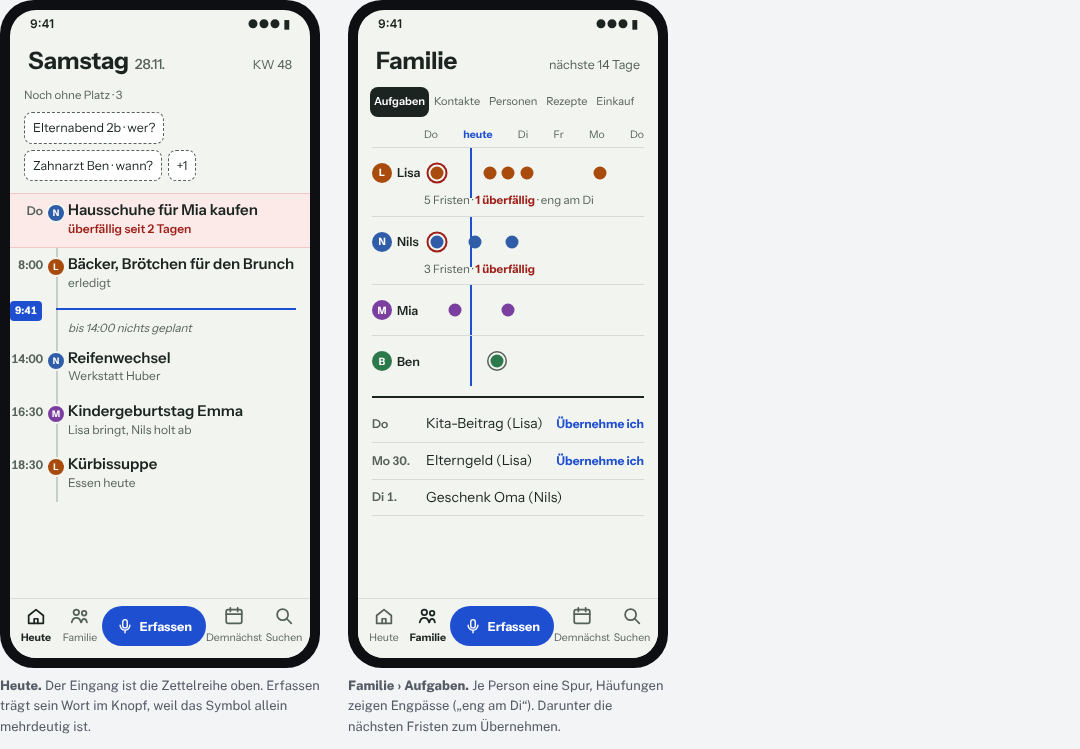
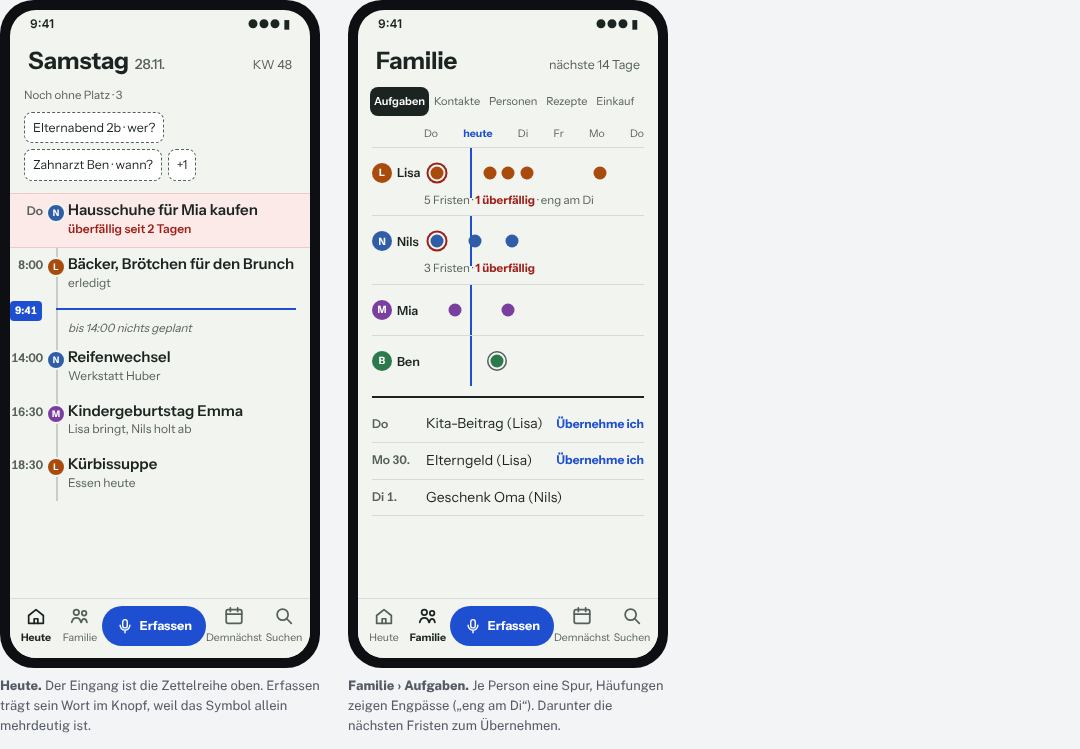
Add organic take on direction A, chosen by Nils
Claude-Session: https://claude.ai/code/session_01BFnfEt5Be47hwYCfY1JE4V

diff --git a/docs/gestaltung/richtungen/optik-richtungen.html b/docs/gestaltung/richtungen/optik-richtungen.html
@@ -1,7 +1,7 @@
 <title>FamilyApp Optik-Richtungen</title>
 <meta name="claude:viewport-fit-sides" content="cover">
 <link rel="preconnect" href="https://fonts.googleapis.com">
-<link rel="stylesheet" href="https://fonts.googleapis.com/css2?family=Archivo:wdth,wght@62..125,400..800&family=Atkinson+Hyperlegible:wght@400;700&family=Instrument+Sans:wdth,wght@75..100,400..700&family=Public+Sans:wght@400;600;800&display=swap">
+<link rel="stylesheet" href="https://fonts.googleapis.com/css2?family=Archivo:wdth,wght@62..125,400..800&family=Atkinson+Hyperlegible:wght@400;700&family=Instrument+Sans:wdth,wght@75..100,400..700&family=Public+Sans:wght@400;600;800&family=Rubik:wght@400;500;600;700&display=swap">
 <link rel="stylesheet" href="https://fonts.googleapis.com/css2?family=Atkinson+Hyperlegible+Next:wght@400;600;800&display=swap">
 <style>
 /* Layout: one reading column for the argument, phone frames in pairs per direction; phones keep their own fixed light palettes. */
@@ -193,6 +193,46 @@ a{color:var(--mark)}
 .C .next .r{display:flex;gap:10px;padding:7px 0;border-bottom:1px solid #D5DBD6;font-size:14px;align-items:center}
 .C .next .d{width:44px;font-size:12px;font-weight:600;color:#55605A;font-variant-numeric:tabular-nums}
 .C .next .take{margin-left:auto;font-size:12px;font-weight:700;color:#1F4FD1;white-space:nowrap}
+
+/* ---------- A2: Familienplaner, organisch ---------- */
+.A2{background:#FBFAF8;color:#1E2333;font-family:"Rubik",system-ui,sans-serif}
+.A2 .day{padding:6px 18px 12px;display:flex;align-items:flex-end;justify-content:space-between}
+.A2 .dname{font-size:32px;font-weight:700;line-height:1;letter-spacing:-.015em}
+.A2 .dmeta{font-size:12.5px;color:#545A6B;text-align:right;line-height:1.35}
+.A2 .ppl{display:grid;grid-template-columns:repeat(4,1fr);gap:6px;padding:0 12px}
+.A2 .pp{border-radius:18px 18px 14px 14px;padding:9px 6px 8px;display:flex;flex-direction:column;gap:1px}
+.A2 .pp .nm{font-size:12px;font-weight:600;display:flex;align-items:center;gap:5px}
+.A2 .pp .num{font-size:26px;font-weight:700;line-height:1.05;font-variant-numeric:tabular-nums}
+.A2 .pp .rd{white-space:nowrap;font-size:10px;font-weight:600;color:#A3241C}
+.A2 .pp .mm2{font-size:10.5px;color:#545A6B}
+.A2 .lab{font-size:13px;font-weight:600;color:#545A6B;padding:16px 18px 6px;display:flex;justify-content:space-between}
+.A2 .row{display:flex;gap:10px;align-items:flex-start;margin:0 12px 6px;padding:10px 12px;border-radius:16px;background:#F0F1F5}
+.A2 .row.open{background:#fff;box-shadow:inset 0 0 0 1.5px #D9DCE4}
+.A2 .q{width:26px;height:26px;border-radius:50%;border:2px dashed #7A8090;display:grid;place-items:center;font-weight:700;font-size:12px;color:#545A6B;flex:none}
+.A2 .tt{font-size:14.5px;font-weight:600;line-height:1.25}
+.A2 .mm{font-size:11.5px;color:#545A6B;margin-top:1px}
+.A2 .od{display:inline-block;background:#FBE4E1;color:#A3241C;font-weight:600;border-radius:8px;padding:1px 6px;margin-right:4px}
+.A2 .ask{display:flex;gap:6px;margin-top:8px;flex-wrap:wrap}
+.A2 .ask span{font-size:12px;font-weight:600;border-radius:12px;padding:6px 11px;background:#E6E8EE}
+.A2 .ask .y{background:#1E2333;color:#fff}
+.A2 .ask .del{background:transparent;color:#545A6B;padding-left:4px}
+.A2 .nav{background:#FBFAF8;color:#545A6B;padding-top:8px}
+.A2 .nav .on{color:#1E2333;font-weight:600}
+.A2 .nav .on svg{background:#E6E8EE;border-radius:12px;padding:2px 12px;box-sizing:content-box}
+.A2 .capq{width:58px;height:52px;border-radius:20px;background:#1E2333;color:#fff;display:grid;place-items:center;margin-top:-18px}
+.A2 .tabs{display:flex;gap:2px;padding:0 10px 10px;flex-wrap:wrap}
+.A2 .tabs span{font-size:11px;padding:7px 5px;border-radius:12px;color:#545A6B}
+.A2 .tabs .on{background:#1E2333;color:#fff;font-weight:600}
+.A2 .lanes{display:grid;grid-template-columns:36px repeat(4,1fr);gap:0 4px;padding:0 10px}
+.A2 .lh{font-size:11px;font-weight:600;padding:7px 4px 6px;border-radius:14px 14px 0 0;display:flex;align-items:center;gap:4px}
+.A2 .dl{font-size:11px;color:#545A6B;padding:6px 2px;line-height:1.15;min-height:42px}
+.A2 .dl.today{color:#1E2333;font-weight:700}
+.A2 .dl.today span{background:#1E2333;color:#fff;border-radius:10px;padding:1px 5px}
+.A2 .cl{min-height:42px;padding:3px 3px}
+.A2 .blk{font-size:10.5px;line-height:1.15;padding:4px 6px;font-weight:500;border-radius:10px;background:#fff;hyphens:auto;-webkit-hyphens:auto;margin-bottom:3px}
+.A2 .blk.odb{background:#FBE4E1;color:#A3241C;font-weight:600}
+.A2 .ft{font-size:11px;font-weight:600;padding:7px 4px 9px;border-radius:0 0 14px 14px}
+.A2 .ft b{color:#A3241C}
 @media (prefers-reduced-motion: reduce){*{transition:none!important;animation:none!important}}
 </style>
 
@@ -214,6 +254,59 @@ a{color:var(--mark)}
     <b>Was dieser Vorschlag anders macht:</b> Der Ist-Stand ist am Compose-Code gemessen (Theme.kt, Screens.kt, Cards.kt, FamilyScreen.kt), nicht nach Gefühl, und gegen einen veröffentlichten Katalog generischer KI-Muster gezählt. Jede Richtung leitet sich aus einer Phase des Mental Load ab (Daminger 2019) statt aus einer Stilvorlage. Alle Farben sind nach WCAG 2.2 nachgerechnet, und am Ende steht, wie wir mit fünf Personen prüfen, welche Richtung wirklich besser funktioniert.
   </div>
 </header>
+
+<section class="dir" id="a-organisch">
+  <div class="dirhead">
+    <div>
+      <div class="eyebrow">Gewählt am 28.11.2026 · Richtung A, organisch</div>
+      <h2>Familienplaner, weich</h2>
+      <p>Gleiche Ordnung wie A: jede Person hat ihre Spalte, man sieht sofort, wer was trägt. Statt Linien und Ecken tragen jetzt weiche Farbflächen die Spalten, Karten und Knöpfe sind gerundet, die Schrift ist die runde, kräftige Rubik in normaler Schreibweise statt schmaler Großbuchstaben.</p>
+      <p><span class="pill">Rubik</span><span class="pill">Personenfarben als helle Spuren</span><span class="pill">Radien 10 bis 20 px</span></p>
+    </div>
+    <div style="font-size:14.5px">
+      <h3>Was sich gegenüber A ändert</h3><ul><li>Spalten sind durchgehende, helle Farbspuren mit runden Köpfen statt Rasterlinien.</li><li>Personen erscheinen als Kreis mit Initiale, Offenes als gestrichelter Kreis mit „?“.</li><li>Überfällig ist ein weiches rotes Etikett mit Text statt eines Rahmens.</li><li>Kein Wischen mehr, nur Knöpfe; „Irrelevant“ heißt „Löschen“ und ist der leiseste Knopf.</li></ul>
+    </div>
+  </div>
+  <div class="phones">
+    <div><div class="phone"><div class="screen A2">
+        <div class="status"><span>9:41</span><span>●●● ▮</span></div>
+        <div class="day"><span class="dname">Samstag</span><span class="dmeta">28. November<br>KW 48</span></div>
+        <div class="body">
+          <div class="ppl"><div class="pp" style="background:#E3EAF6"><span class="nm"><span class="dot" style="width:16px;height:16px;background:#2F5DA8;font-size:7px">N</span>Nils</span><span class="num">3</span><span class="rd">1 überfällig</span></div><div class="pp" style="background:#F5E6DB"><span class="nm"><span class="dot" style="width:16px;height:16px;background:#A84B0C;font-size:7px">L</span>Lisa</span><span class="num">5</span><span class="rd">1 überfällig</span></div><div class="pp" style="background:#EEE3F4"><span class="nm"><span class="dot" style="width:16px;height:16px;background:#7B3FA0;font-size:7px">M</span>Mia</span><span class="num">2</span><span class="mm2">betrifft</span></div><div class="pp" style="background:#E0EFE5"><span class="nm"><span class="dot" style="width:16px;height:16px;background:#2C7A4B;font-size:7px">B</span>Ben</span><span class="num">1</span><span class="mm2">betrifft</span></div></div>
+          <div class="lab"><span>Gehört noch niemandem</span><span>3</span></div>
+          <div class="row open"><span class="q">?</span><div><div class="tt">Elternabend Klasse 2b, Di 19:30</div><div class="mm">Geteilt · betrifft Mia · bis Di 1.12.</div><div class="ask"><span class="y">Mach ich</span><span>Lisa</span><span class="del">Löschen</span></div></div></div>
+          <div class="row open"><span class="q">?</span><div><div class="tt">Zahnarzt für Ben vereinbaren</div><div class="mm">Gesprochen · Vorschlag Lisa · Datum offen</div></div></div>
+          <div class="lab"><span>Meins heute</span><span>3</span></div>
+          <div class="row"><span class="dot" style="width:26px;height:26px;background:#2F5DA8;font-size:12px">N</span><div><div class="tt">Hausschuhe für Mia kaufen</div><div class="mm"><span class="od">überfällig seit Do</span>betrifft Mia</div></div></div>
+          <div class="row"><span class="dot" style="width:26px;height:26px;background:#2F5DA8;font-size:12px">N</span><div><div class="tt">Reifenwechsel, Termin 14:00</div><div class="mm">heute</div></div></div>
+        </div>
+        <div class="nav">
+          <div class="it on"><svg><use href="#i-today"/></svg>Heute</div>
+          <div class="it"><svg><use href="#i-fam"/></svg>Familie</div>
+          <div class="it"><div class="capq"><svg><use href="#i-mic"/></svg></div>Erfassen</div>
+          <div class="it"><svg><use href="#i-cal"/></svg>Demnächst</div>
+          <div class="it"><svg><use href="#i-search"/></svg>Suchen</div>
+        </div>
+      </div></div>
+      <p class="cap"><b>Heute.</b> Oben die vier Personen als weiche Farbkacheln. Ungeklärtes ist weiß mit Rand, Eigenes liegt auf ruhigem Grau.</p>
+    </div>
+    <div><div class="phone"><div class="screen A2">
+        <div class="status"><span>9:41</span><span>●●● ▮</span></div>
+        <div class="day"><span class="dname">Familie</span><span class="dmeta">Woche 48<br>23.–29.11.</span></div>
+        <div class="tabs"><span class="on">Aufgaben</span><span>Kontakte</span><span>Personen</span><span>Rezepte</span><span>Einkauf</span></div>
+        <div class="body"><div class="lanes"><div></div><div class="lh" style="background:#E3EAF6"><span class="dot" style="width:14px;height:14px;background:#2F5DA8;font-size:6px">N</span>Nils</div><div class="lh" style="background:#F5E6DB"><span class="dot" style="width:14px;height:14px;background:#A84B0C;font-size:6px">L</span>Lisa</div><div class="lh" style="background:#EEE3F4"><span class="dot" style="width:14px;height:14px;background:#7B3FA0;font-size:6px">M</span>Mia</div><div class="lh" style="background:#E0EFE5"><span class="dot" style="width:14px;height:14px;background:#2C7A4B;font-size:6px">B</span>Ben</div><div class="dl">Do<br>26.</div><div class="cl" style="background:#E3EAF6"><div class="blk odb">Hausschuhe Mia</div></div><div class="cl" style="background:#F5E6DB"><div class="blk odb">Kita-Beitrag</div></div><div class="cl" style="background:#EEE3F4"></div><div class="cl" style="background:#E0EFE5"></div><div class="dl">Fr<br>27.</div><div class="cl" style="background:#E3EAF6"></div><div class="cl" style="background:#F5E6DB"><div class="blk">Rezept Oma</div></div><div class="cl" style="background:#EEE3F4"><div class="blk">Turnbeutel</div></div><div class="cl" style="background:#E0EFE5"></div><div class="dl today"><span>Sa</span><br>28.</div><div class="cl" style="background:#E3EAF6"><div class="blk">Reifen 14:00</div></div><div class="cl" style="background:#F5E6DB"></div><div class="cl" style="background:#EEE3F4"></div><div class="cl" style="background:#E0EFE5"></div><div class="dl">So<br>29.</div><div class="cl" style="background:#E3EAF6"></div><div class="cl" style="background:#F5E6DB"><div class="blk">Adventskranz</div></div><div class="cl" style="background:#EEE3F4"></div><div class="cl" style="background:#E0EFE5"></div><div class="dl">Mo<br>30.</div><div class="cl" style="background:#E3EAF6"></div><div class="cl" style="background:#F5E6DB"><div class="blk">Elterngeld</div></div><div class="cl" style="background:#EEE3F4"></div><div class="cl" style="background:#E0EFE5"><div class="blk">Zahnarzt?</div></div><div class="dl">Di<br>1.</div><div class="cl" style="background:#E3EAF6"><div class="blk">Geschenk Oma</div></div><div class="cl" style="background:#F5E6DB"><div class="blk">Elternabend</div></div><div class="cl" style="background:#EEE3F4"><div class="blk">Elternabend</div></div><div class="cl" style="background:#E0EFE5"></div><div class="dl" style="min-height:0;padding-top:8px">offen</div><div class="ft" style="background:#E3EAF6">3 · <b>1 üf.</b></div><div class="ft" style="background:#F5E6DB">5 · <b>1 üf.</b></div><div class="ft" style="background:#EEE3F4">2</div><div class="ft" style="background:#E0EFE5">1</div></div></div>
+        <div class="nav">
+          <div class="it"><svg><use href="#i-today"/></svg>Heute</div>
+          <div class="it on"><svg><use href="#i-fam"/></svg>Familie</div>
+          <div class="it"><div class="capq"><svg><use href="#i-mic"/></svg></div>Erfassen</div>
+          <div class="it"><svg><use href="#i-cal"/></svg>Demnächst</div>
+          <div class="it"><svg><use href="#i-search"/></svg>Suchen</div>
+        </div>
+      </div></div>
+      <p class="cap"><b>Familie › Aufgaben.</b> Die Woche als Farbspuren je Person, heute dunkel markiert, Summen unten in der Spur.</p>
+    </div>
+  </div>
+</section>
 
 <section class="grid2">
   <div>
@@ -302,7 +395,7 @@ a{color:var(--mark)}
             <div class="col"><span class="nm"><i class="sw" style="background:#2C7A4B"></i>Ben</span><span class="num">1</span><span class="mm">betrifft</span></div>
           </div>
           <div class="lab"><span>Gehört noch niemandem</span><span>3</span></div>
-          <div class="row"><div class="tab q">?</div><div class="cell"><span class="tt">Elternabend Klasse 2b, Di 19:30</span><span class="mm">Geteilt · betrifft Mia · bis Di 1.12.</span><div class="ask"><span class="y">Mach ich</span><span>Lisa</span><span>Irrelevant</span></div></div></div>
+          <div class="row"><div class="tab q">?</div><div class="cell"><span class="tt">Elternabend Klasse 2b, Di 19:30</span><span class="mm">Geteilt · betrifft Mia · bis Di 1.12.</span><div class="ask"><span class="y">Mach ich</span><span>Lisa</span><span>Löschen</span></div></div></div>
           <div class="row"><div class="tab q">?</div><div class="cell"><span class="tt">Zahnarzt für Ben vereinbaren</span><span class="mm">Gesprochen · Vorschlag Lisa · Datum offen</span></div></div>
           <div class="lab"><span>Meins heute</span><span>3</span></div>
           <div class="row"><div class="tab" style="background:#2F5DA8">N</div><div class="cell"><span class="tt">Hausschuhe für Mia kaufen</span><span class="mm"><b>überfällig seit Do</b> · betrifft Mia</span></div></div>
@@ -380,7 +473,7 @@ a{color:var(--mark)}
               <div><span class="k">kümmert sich</span><mark>Wer?</mark></div>
               <div><span class="k">bis</span>Dienstag, 1.12.</div>
             </div>
-            <div class="act"><span class="no">Irrelevant</span><span class="yes">Mach ich</span></div>
+            <div class="act"><span class="no">Löschen</span><span class="yes">Mach ich</span></div>
           </div></div>
           <div class="more">noch 2 dahinter</div>
           <div class="sh"><span>Für dich heute</span><span>3</span></div>
@@ -515,7 +608,7 @@ a{color:var(--mark)}
 </section>
 
 <section class="reco prose">
-  <div class="eyebrow">Empfehlung</div>
+  <div class="eyebrow">Ursprüngliche Empfehlung (Nils hat am 28.11. A gewählt, siehe oben)</div>
   <h2>B als Grundlage, die Familie-Ansicht aus A</h2>
   <p>Der Eingang ist der Kern der App, und B macht ihn am leichtesten. B ist außerdem am robustesten bei großer Schrift und braucht den kleinsten Umbau. Für <b>Familie › Aufgaben</b> übernehmen wir das Wochenraster aus A, weil dort Transparenz die Frage ist und nicht Entscheidung. Die Zeitachse aus C passt später gut zu <b>Demnächst</b>.</p>
   <p>Unabhängig von der Richtung lohnen sich sofort: Datum und KW oben auf Heute, Erklärtexte streichen, Regelbegründung erst beim Antippen, nur ein lauter Knopf pro Karte, eigene Schrift statt Systemschrift.</p>

diff --git a/docs/gestaltung/richtungen/README.md b/docs/gestaltung/richtungen/README.md
@@ -1,8 +1,8 @@
 # Optik-Richtungen: weg vom generischen Look
 
-- Status: Vorschlag, wartet auf Nils' Wahl
+- Status: **Gewählt: A, organisch** (Nils, 28.11.2026: „A ist besser, aber sehr kantig, mach es organischer“). Dazu entschieden: keine Wischgesten, nur Knöpfe; „Irrelevant“ heißt „Löschen“.
 - Datum: 2026-11-28
-- Ansicht mit Mockups: [optik-richtungen.html](optik-richtungen.html) (im Browser öffnen), Bilder: [ist.png](ist.png), [dir-a.png](dir-a.png), [dir-b.png](dir-b.png), [dir-c.png](dir-c.png)
+- Ansicht mit Mockups: [optik-richtungen.html](optik-richtungen.html) (im Browser öffnen), Bilder: [ist.png](ist.png), [dir-a.png](dir-a.png), [dir-b.png](dir-b.png), [dir-c.png](dir-c.png), gewählt: [dir-a-organisch.png](dir-a-organisch.png)
 - Grundlage: [optik-haptik-klickwege.md](../optik-haptik-klickwege.md), `app/shared/.../ui/Theme.kt`, [Penpot-Tokens](../penpot/familyapp-tokens.json)
 
 Nils (28.11.2026): „Die Optik ist sehr generisch und wenig intuitiv.“ Dieses Dokument hält Befund, Grundsätze und drei Richtungen fest. Es ändert noch keinen Code.
@@ -51,6 +51,21 @@ Fest bleiben: Navigation A mit Erfassen in der Mitte, keine Vibration, feste Far
 Alle Kontraste nach der WCAG-Formel für relative Leuchtdichte nachgerechnet, alle Paare ≥ 4,5 : 1 (weiß auf Personenfarben 5,3–6,9, Tinte auf Gelb 12,8, Rot auf Grund ≥ 5,6). Alle Schriften stehen unter der SIL Open Font License.
 
 **Empfehlung:** B als Grundlage, für Familie › Aufgaben das Wochenraster aus A, die Zeitachse aus C später für Demnächst. Unabhängig davon sofort sinnvoll: Datum und KW auf Heute, Erklärtexte streichen, Regelbegründung erst beim Antippen, ein lauter Knopf pro Karte, eigene Schrift.
+
+## Gewählt: A, organisch
+
+Gleiche Ordnung wie A (Spalte je Person), aber weich:
+
+| | A (kantig) | A organisch |
+| --- | --- | --- |
+| Schrift | Archivo, schmal, Großbuchstaben | Rubik, normale Schreibweise |
+| Spalten | Rasterlinien | durchgehende helle Farbspuren je Person, runde Köpfe |
+| Formen | eckig | Radien 10–20 px, Erfassen als abgerundetes Quadrat |
+| Personen | farbiges Rechteck mit Initiale | Kreis mit Initiale, Offenes als gestrichelter Kreis „?“ |
+| Überfällig | roter Rahmen | weiches rotes Etikett mit Text |
+| Farben | Tinte #14213D auf Weiß | Tinte #1E2333 auf #FBFAF8, Spuren #E3EAF6 · #F5E6DB · #EEE3F4 · #E0EFE5, Rot #A3241C auf #FBE4E1 |
+
+Kontrast nachgerechnet: Text auf allen Spuren ≥ 12,6 : 1, Sekundärtext #545A6B ≥ 5,5 : 1, Rot ≥ 6,0 : 1, Weiß auf Tinte 15,6 : 1.
 
 ## Prüfung
 
